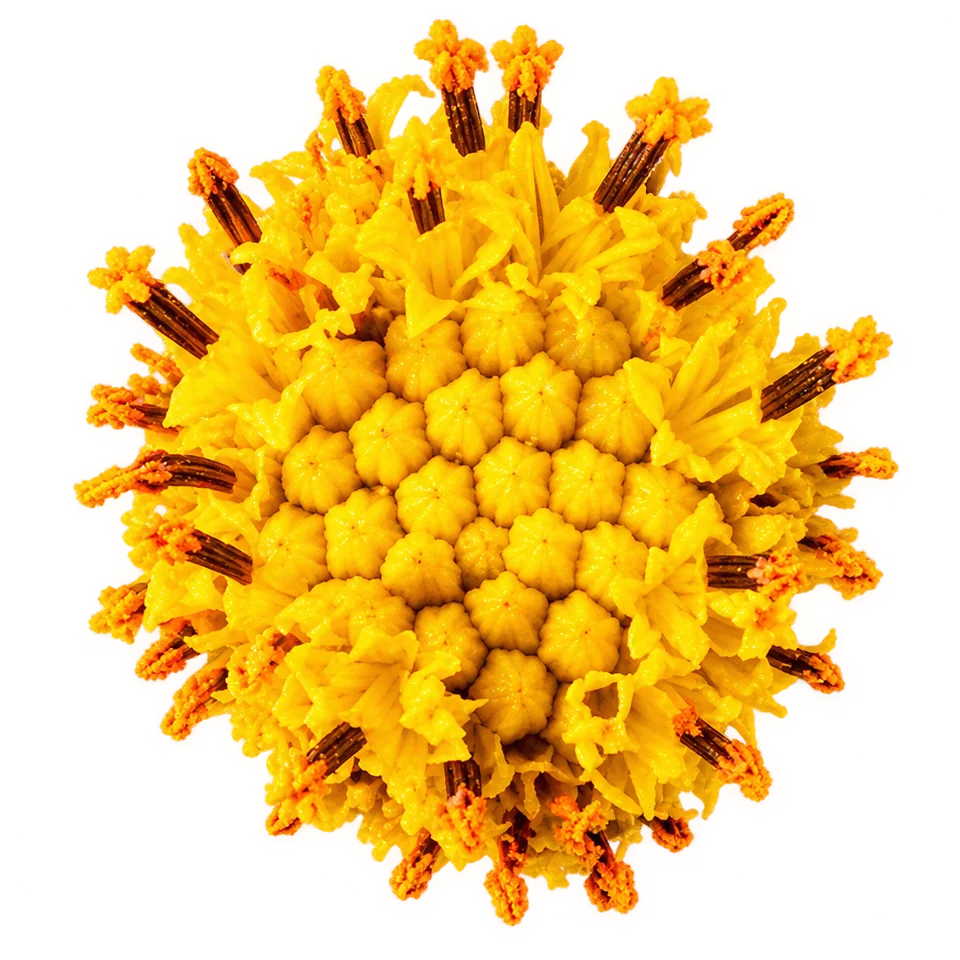
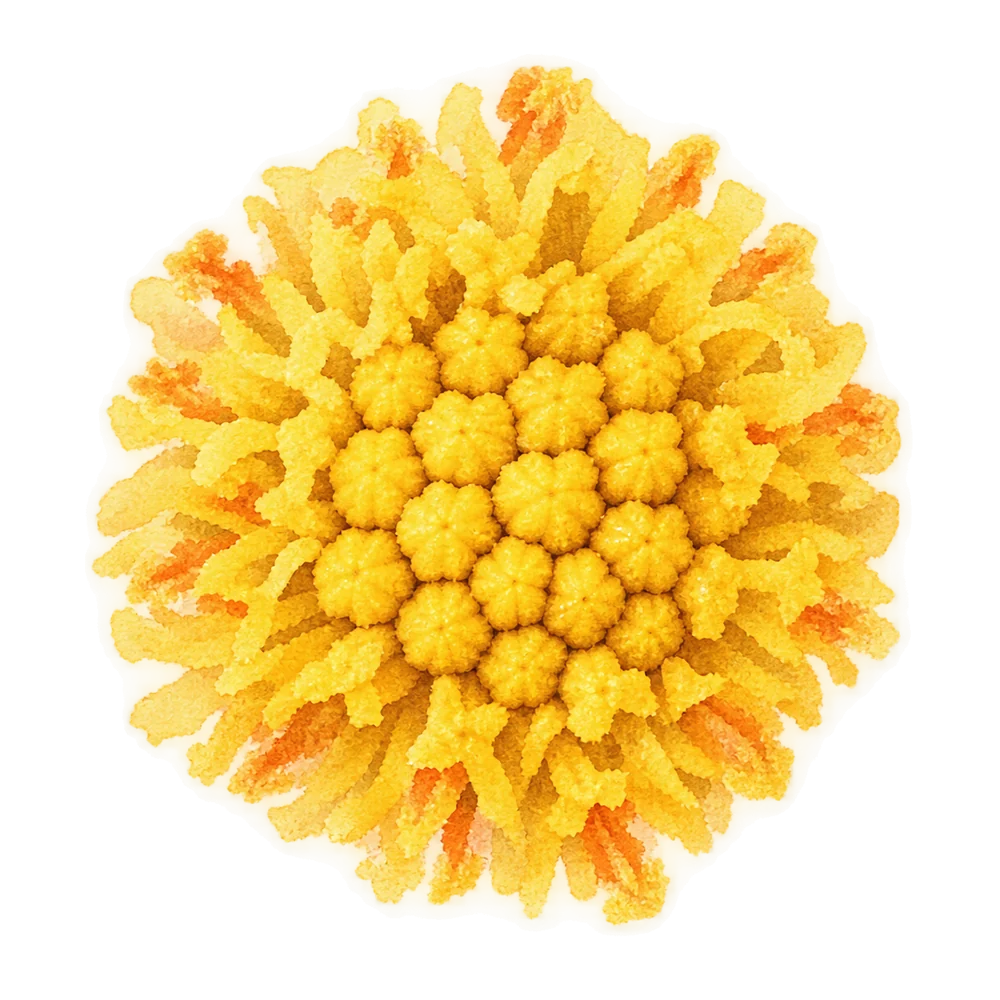
Sun: use the painted flower center (sun2)

diff --git a/src/components/sections/sun.ts b/src/components/sections/sun.ts
@@ -1,7 +1,7 @@
 // The sun starts as the cosmos center in HeroSaveDateCouple and travels
 // on into HeroBigDay — both sections draw it with these.
 //
-// public/flowers/sun.webp is a flower-center photo cropped square around
+// public/flowers/sun.webp is a painted flower center (sun2), cropped square around
 // its middle; its spiky edge spans about 83 % of the image. SUN_SIZE is
 // the image box, so the sun itself is ~14vmin across — the size of the
 // cosmos center when the flower is scaled up at the hand-off.
